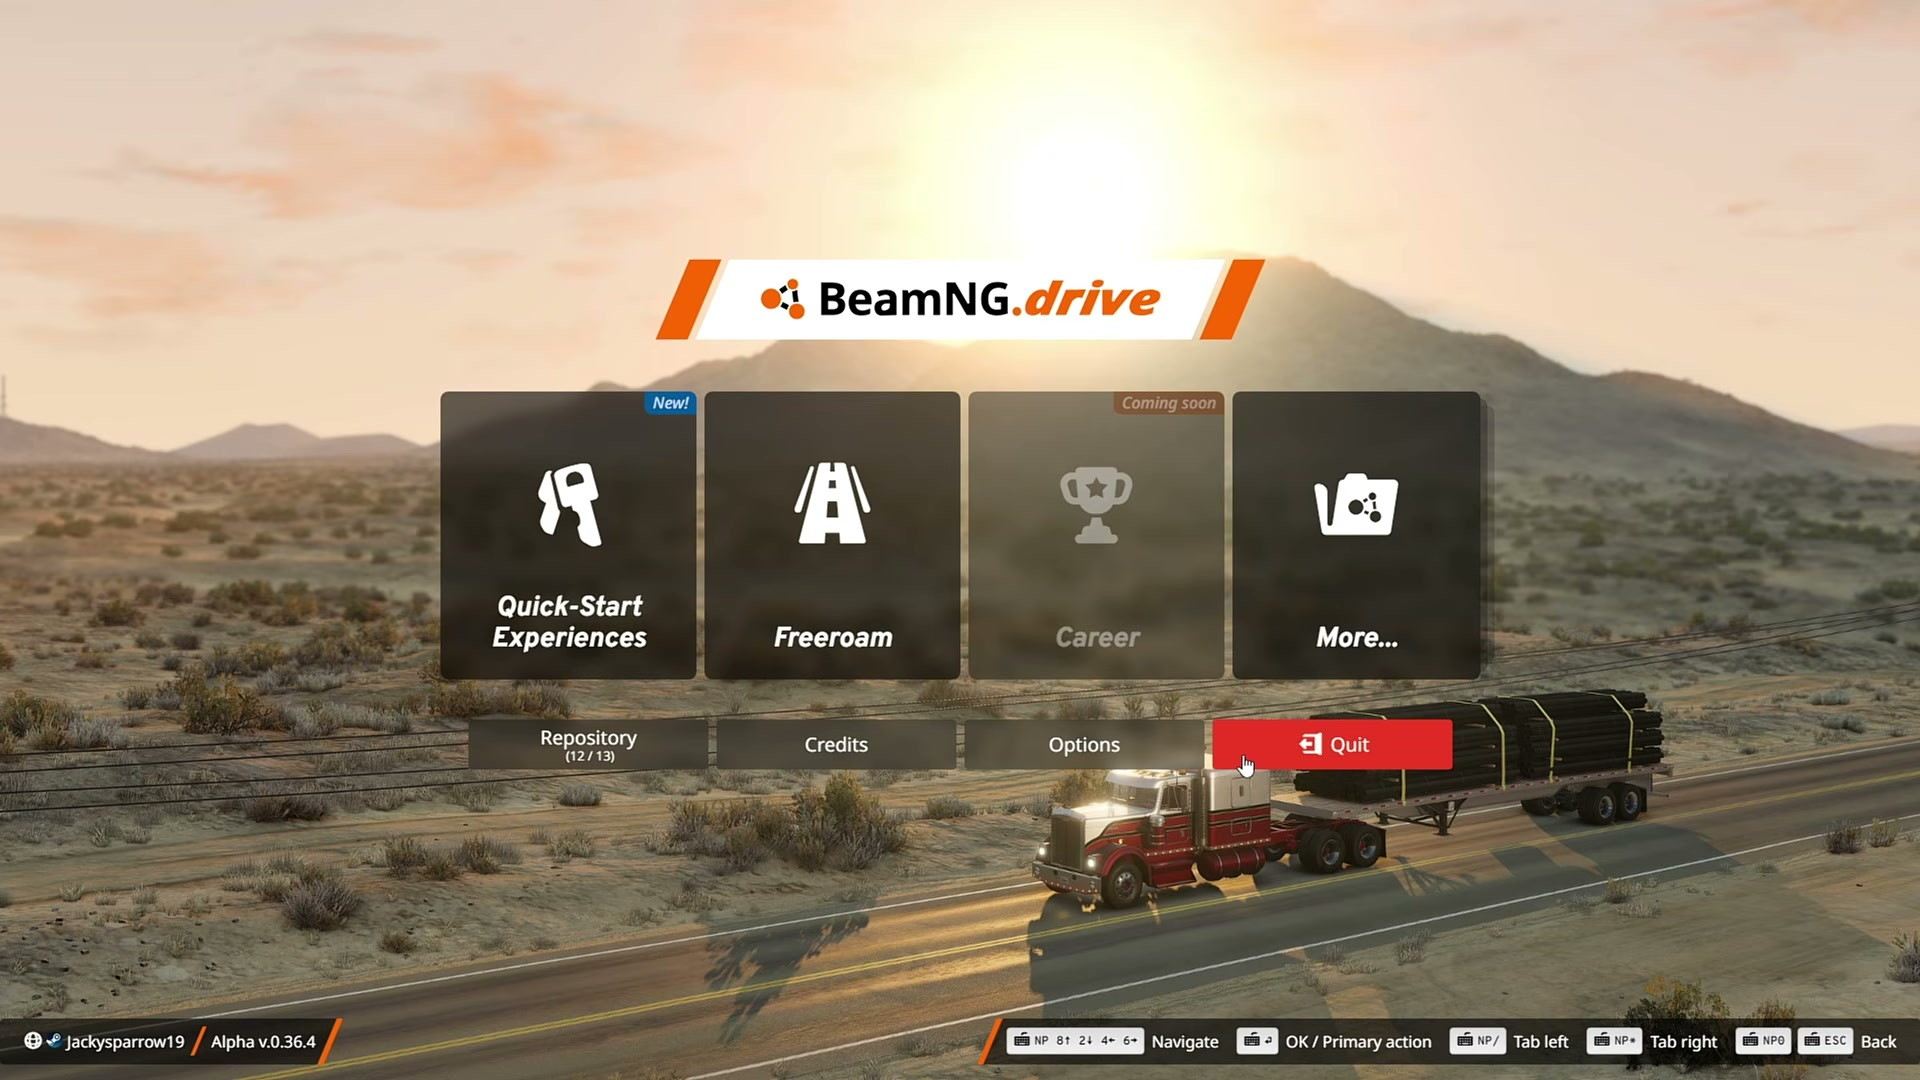
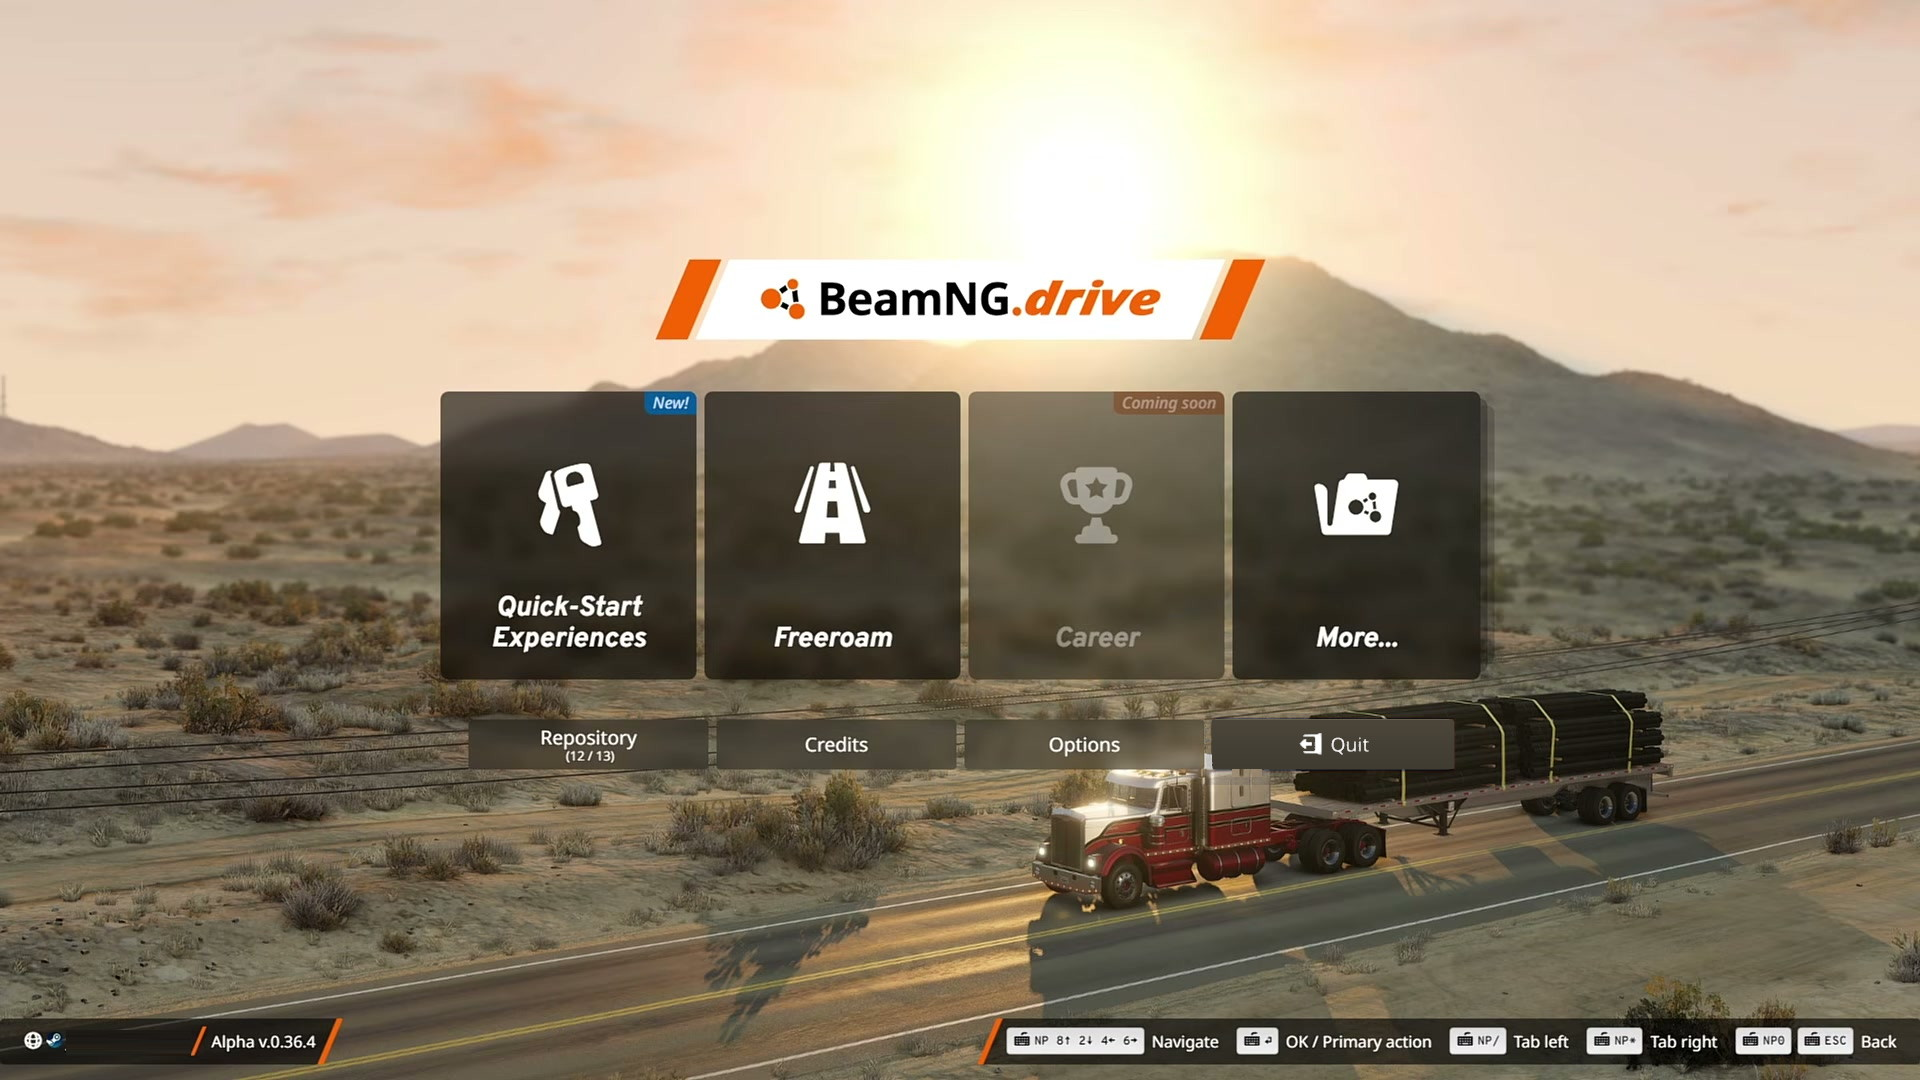
clean baked-in nick and hovered Quit button from assets

Changed region(s): [[0.625, 0.6417, 0.7812, 0.7333], [0.0312, 0.9472, 0.0938, 0.9778]]

diff --git a/src/AppForm.cs b/src/AppForm.cs
@@ -50,7 +50,6 @@ namespace BeamPrank
         float _ox, _oy;
 
         static readonly string UserName = BuildUserName();
-        Bitmap _patchMain, _patchMaps;
 
         static string BuildUserName()
         {
@@ -78,7 +77,7 @@ namespace BeamPrank
         static readonly RectangleF BtnRepo = new RectangleF(468, 718, 230, 42);
         static readonly RectangleF BtnCredits = new RectangleF(712, 718, 230, 42);
         static readonly RectangleF BtnOptions = new RectangleF(972, 718, 230, 42);
-        static readonly RectangleF BtnQuit = new RectangleF(1230, 718, 240, 42);
+        static readonly RectangleF BtnQuit = new RectangleF(1213, 719, 238, 50);
 
         static readonly RectangleF MapsGrid = new RectangleF(6, 95, 1500, 940);
         static readonly RectangleF MapsStart = new RectangleF(1120, 896, 385, 46);
@@ -400,7 +399,7 @@ namespace BeamPrank
             DrawButtonHit(g, "options", BtnOptions);
             DrawButtonHit(g, "quit", BtnQuit);
 
-            DrawPlayerTag(g, "bg_main.jpg", new Rectangle(62, 1032, 156, 40), ref _patchMain, 67, 1052, 145);
+            DrawUserName(g);
         }
 
         void DrawButtonHit(Graphics g, string id, RectangleF r)
@@ -476,7 +475,7 @@ namespace BeamPrank
 
             _hits.Add(new Hit("maps_back", MapsBack));
 
-            DrawPlayerTag(g, "bg_maps.jpg", new Rectangle(62, 1032, 156, 40), ref _patchMaps, 67, 1052, 145);
+            DrawUserName(g);
         }
 
         static void DrawLabelTint(Graphics g, RectangleF card, float labelH, int alpha)
@@ -544,12 +543,6 @@ namespace BeamPrank
             _hits.Add(new Hit("veh_start", VehStart));
 
             _hits.Add(new Hit("veh_back", VehBack));
-
-            // profile chip in the top right corner
-            using (SolidBrush b = new SolidBrush(Color.FromArgb(48, 60, 74)))
-                g.FillRectangle(b, 1822, 17, 80, 26);
-            Draw.Text(g, FitName(g, Theme.NameTiny, UserName, 74), Theme.NameTiny, Color.White,
-                new RectangleF(1818, 17, 80, 26), Draw.RightMid);
         }
 
         void DrawVehCard(Graphics g, int id, float x, float y)
@@ -661,30 +654,6 @@ namespace BeamPrank
         internal void TestPage(string page) { _page = page; }
 
         // ----------------------------------------------------------------- utils
-        /// <summary>Blurs a slice of the background so baked-in text can be replaced.</summary>
-        static Bitmap MakePatch(Bitmap src, Rectangle area)
-        {
-            int w = Math.Max(4, area.Width / 26);
-            int h = Math.Max(3, area.Height / 26);
-            Bitmap big = new Bitmap(area.Width, area.Height);
-            using (Bitmap small = new Bitmap(w, h))
-            {
-                using (Graphics sg = Graphics.FromImage(small))
-                {
-                    sg.InterpolationMode = InterpolationMode.HighQualityBilinear;
-                    sg.DrawImage(src, new Rectangle(0, 0, w, h), area, GraphicsUnit.Pixel);
-                }
-                using (Graphics g2 = Graphics.FromImage(big))
-                {
-                    g2.InterpolationMode = InterpolationMode.HighQualityBicubic;
-                    g2.DrawImage(small, new Rectangle(0, 0, area.Width, area.Height));
-                    using (SolidBrush b = new SolidBrush(Color.FromArgb(200, 0, 0, 0)))
-                        g2.FillRectangle(b, 0, 0, area.Width, area.Height);
-                }
-            }
-            return big;
-        }
-
         static string FitName(Graphics g, Font f, string s, float maxWidth)
         {
             if (g.MeasureString(s, f, 4000, StringFormat.GenericTypographic).Width <= maxWidth)
@@ -698,13 +667,11 @@ namespace BeamPrank
             return s.Substring(0, 1);
         }
 
-        void DrawPlayerTag(Graphics g, string asset, Rectangle area, ref Bitmap cache, float textX, float centerY, float maxWidth)
+        void DrawUserName(Graphics g)
         {
-            if (cache == null) cache = MakePatch(Assets.Get(asset), area);
-            g.DrawImage(cache, area);
-            string n = FitName(g, Theme.Name, UserName, maxWidth);
-            Draw.Text(g, n, Theme.Name, Color.White,
-                new RectangleF(textX, centerY - 15, maxWidth + 10, 30), Draw.LeftMid);
+            string n = FitName(g, Theme.Name, UserName, 118);
+            Draw.TextShadow(g, n, Theme.Name, Color.White,
+                new RectangleF(70, 1027, 122, 30), Draw.LeftMid);
         }
 
         static float Clamp(float v, float a, float b)
